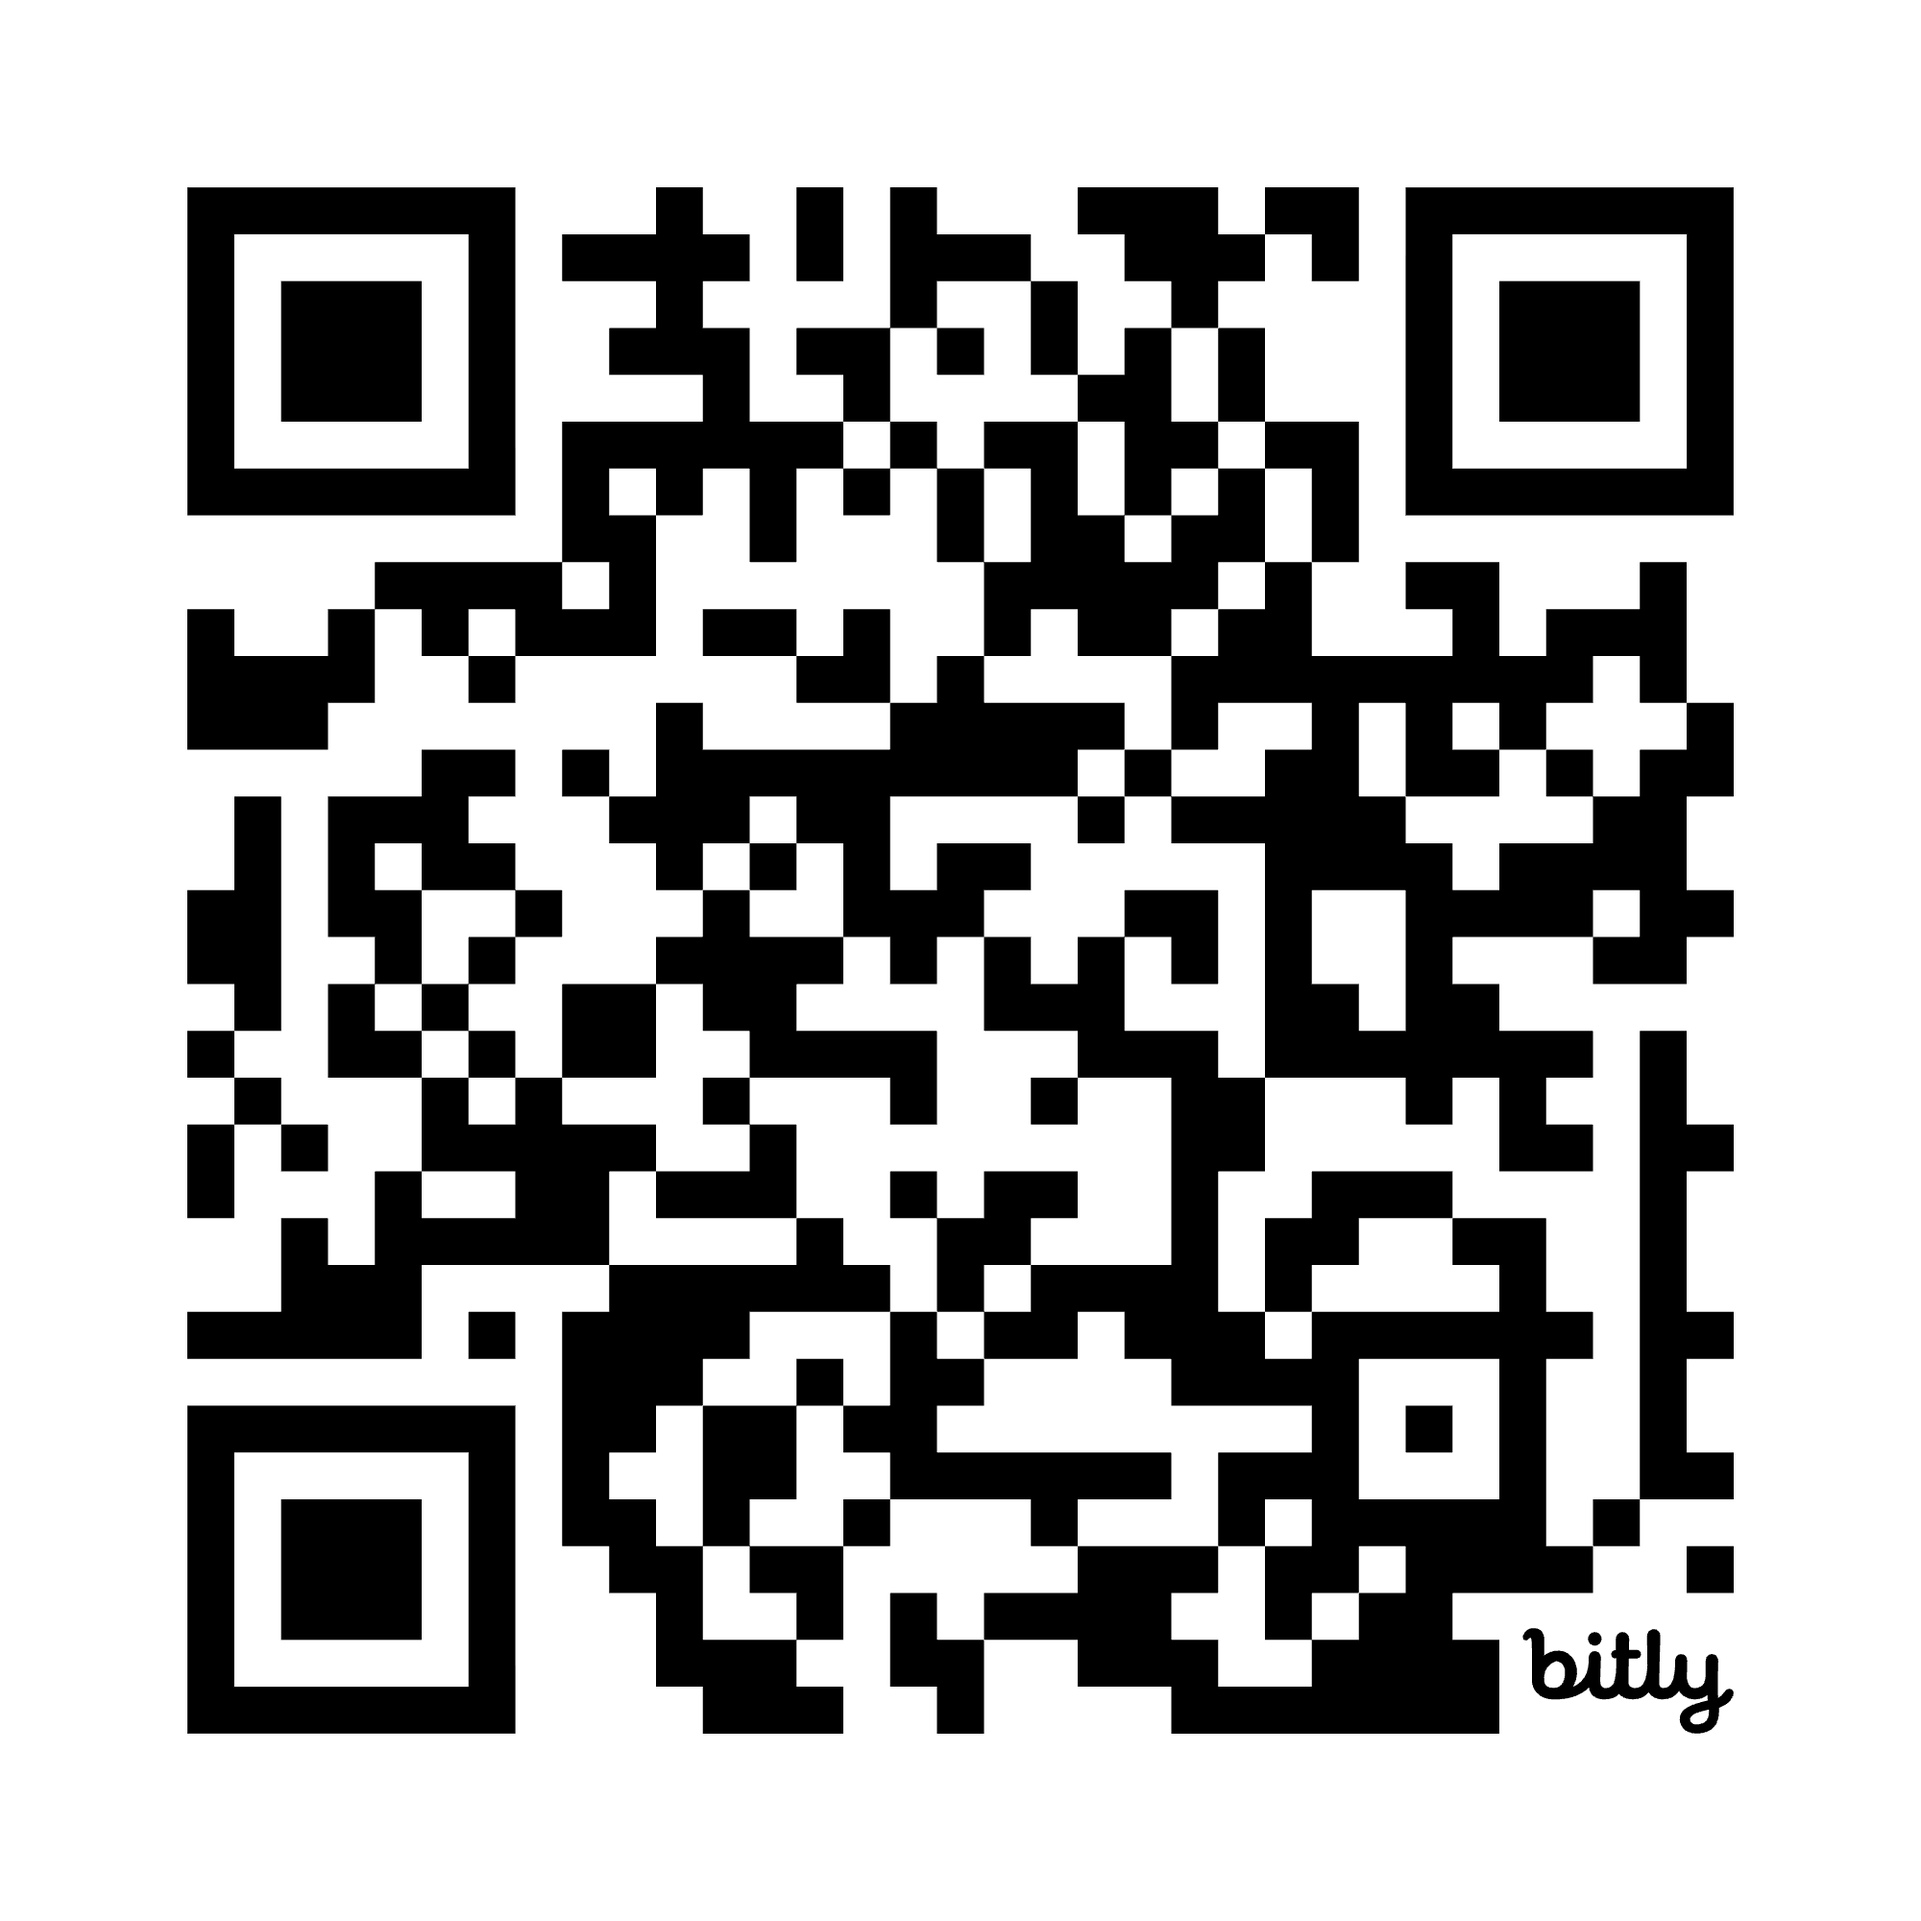
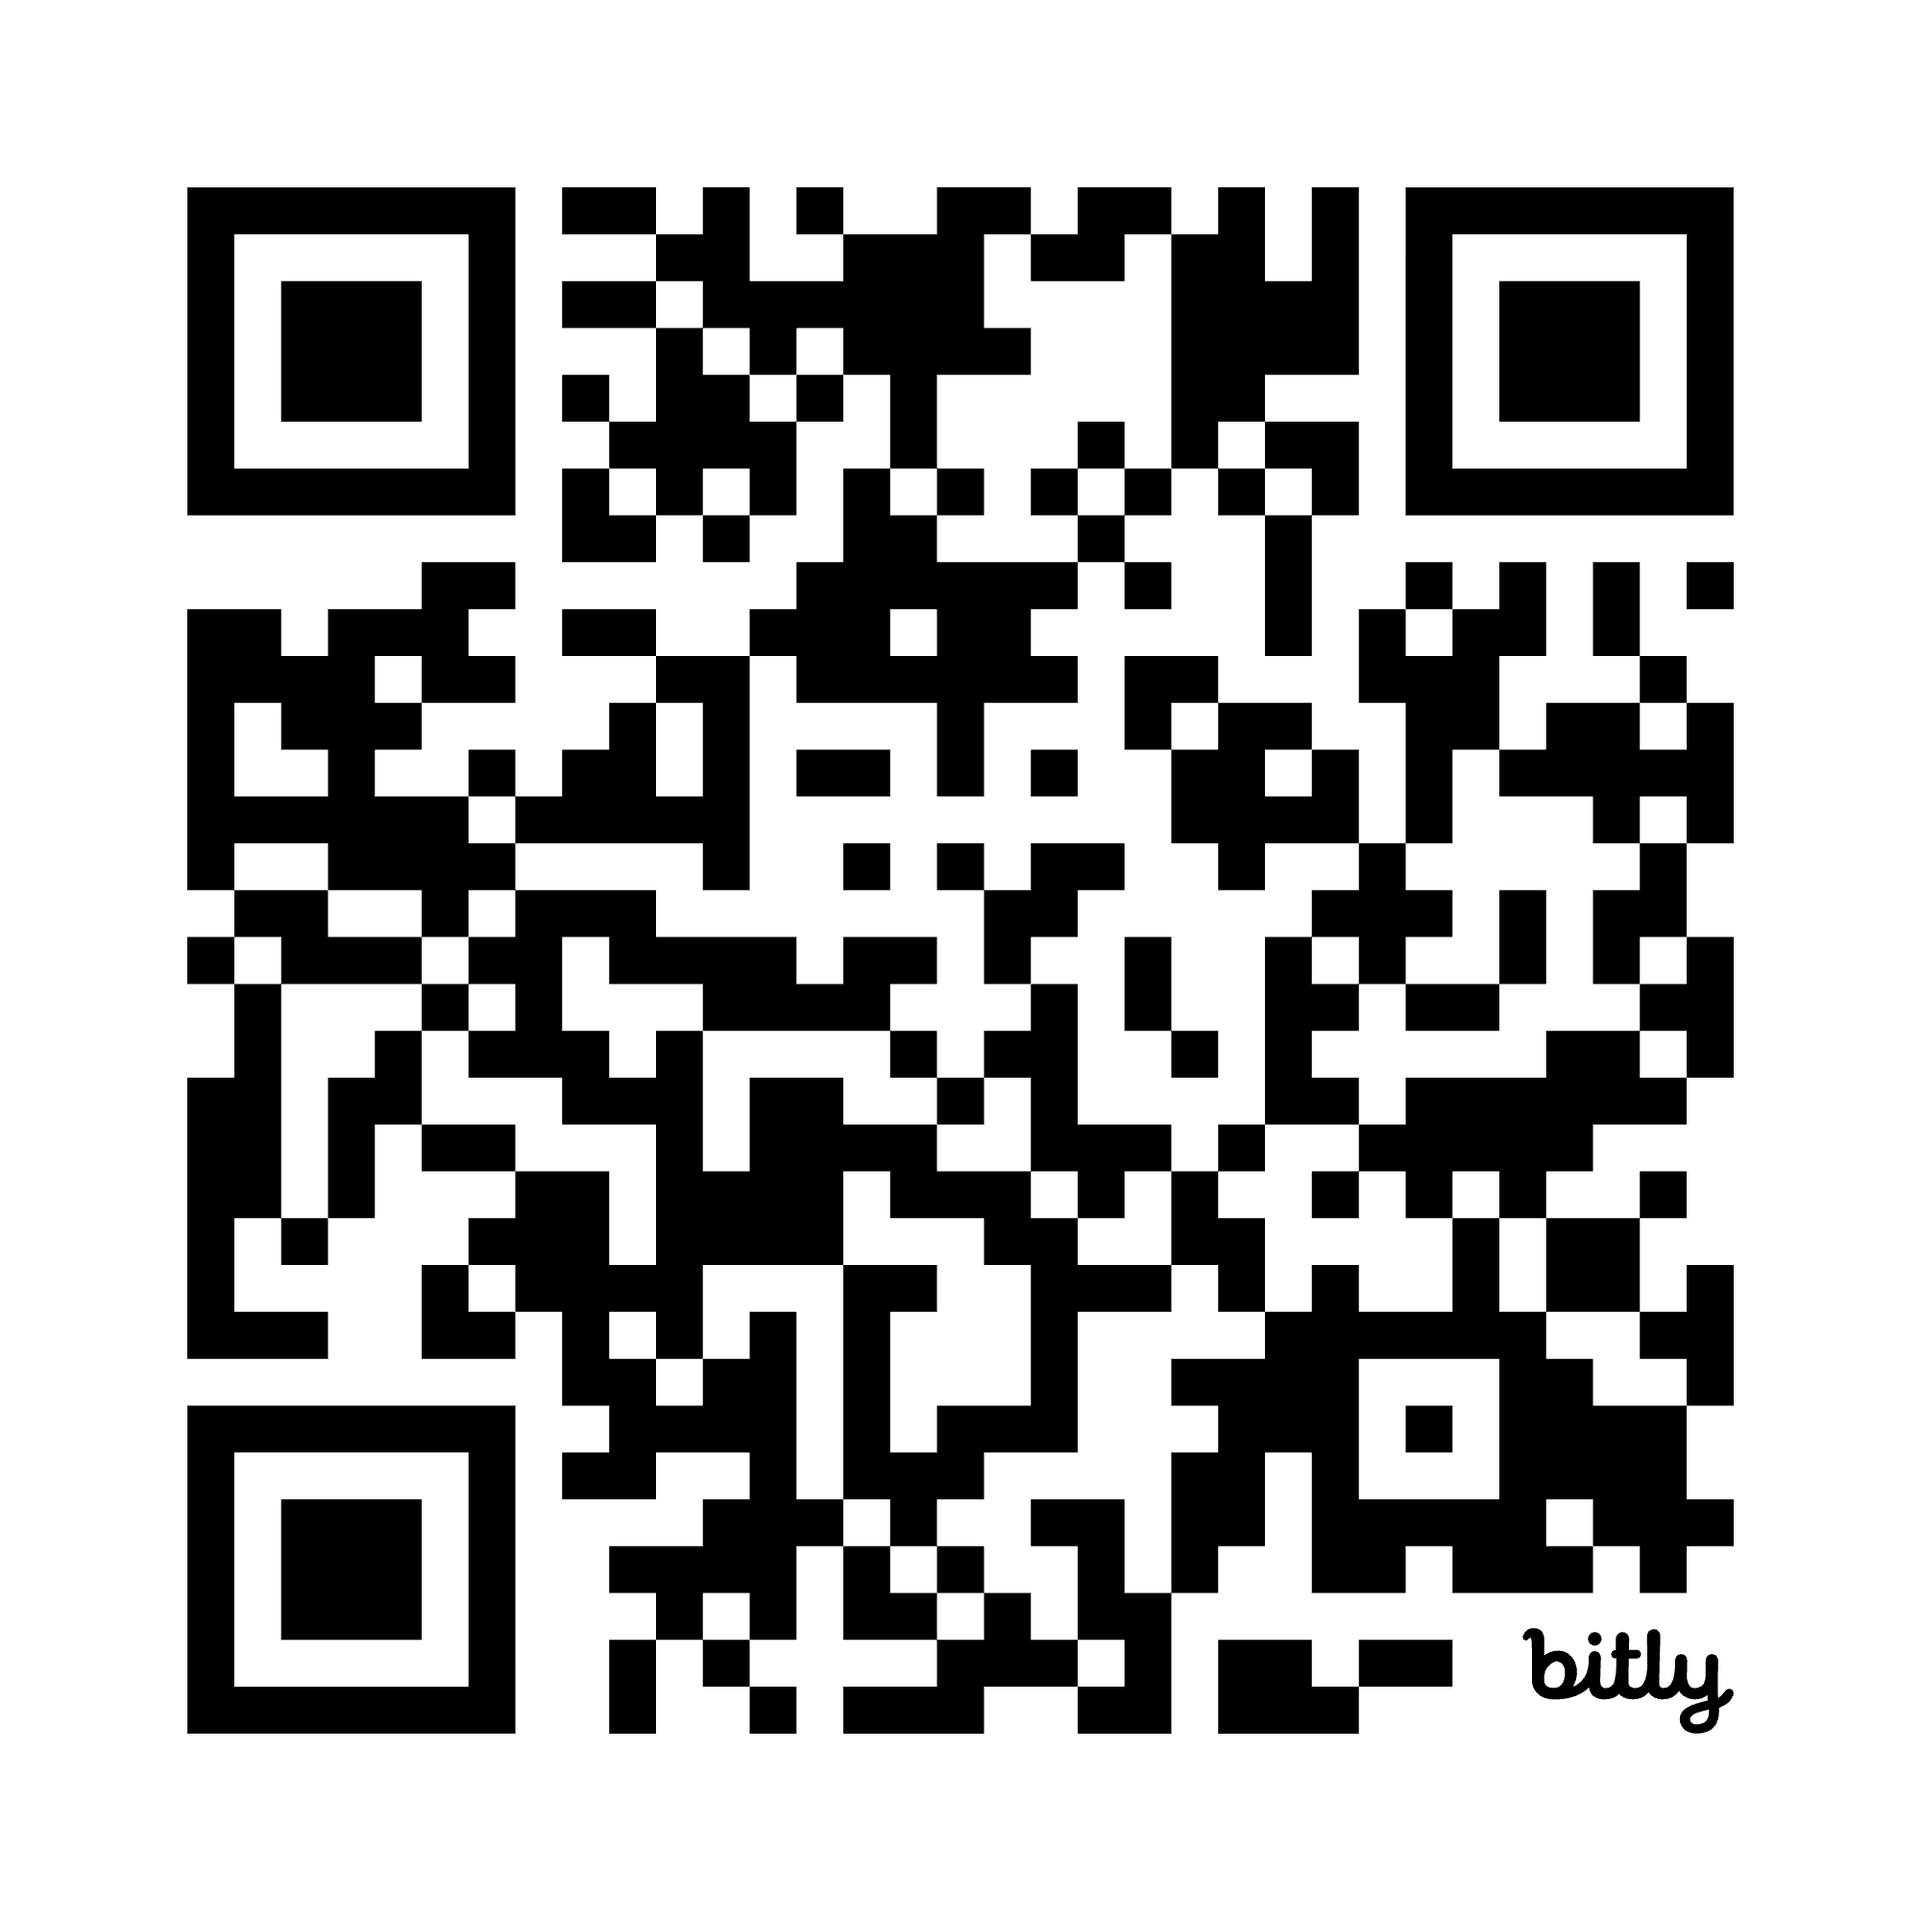
Update welcome page

Changed region(s): [[0.093, 0.093, 0.93, 0.93]]

diff --git a/content/Welcome.md b/content/Welcome.md
@@ -52,6 +52,6 @@ Roman Dryndik
 
 ### Next Steps
 
-Please, join our slack https://bit.ly/4adyDNQ
+Please, join our slack https://bit.ly/4r2MOul
 
 <img src="invite.png" alt="drawing" width="350"/>
